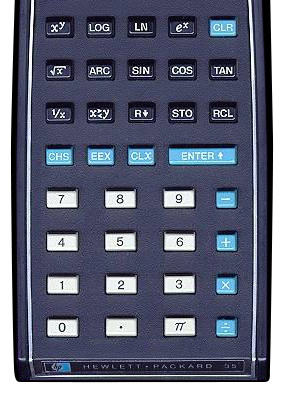
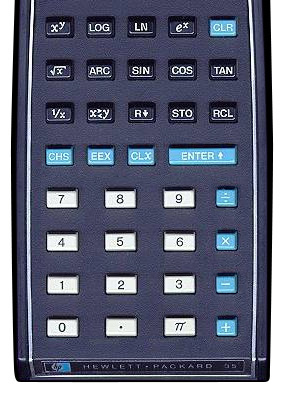
Switched operator keys
Operator keys in "modern" order

Changed region(s): [[0.7188, 0.665, 0.8438, 0.8766], [0.75, 0.4534, 0.8438, 0.5441], [0.75, 0.5743, 0.8438, 0.6348]]

diff --git a/hp35-ii.html b/hp35-ii.html
@@ -620,22 +620,22 @@ document.addEventListener("keydown", function onPress(event) {
 <area shape="RECT" coords="124,142,159,169" href="javascript:key_clx()" title="CLEAR x (backspace)">
 
 
-<area shape="RECT" coords="212,185,241,214" href="javascript:key_subtract()" title="-">
+<area shape="RECT" coords="212,185,241,214" href="javascript:key_divide()" title="/">
 <area shape="RECT" coords="42,185,84,214" href="javascript:key_num(7)" title="7">
 <area shape="RECT" coords="100,185,140,214" href="javascript:key_num(8)" title="8">
 <area shape="RECT" coords="158,185,198,214" href="javascript:key_num(9)" title="9">
 
-<area shape="RECT" coords="212,228,241,257" href="javascript:key_add()" title="+">
+<area shape="RECT" coords="212,228,241,257" href="javascript:key_multiply()" title="*">
 <area shape="RECT" coords="42,228,84,257" href="javascript:key_num(4)" title="4">
 <area shape="RECT" coords="100,228,140,257" href="javascript:key_num(5)" title="5">
 <area shape="RECT" coords="158,228,198,257" href="javascript:key_num(6)" title="6">
 
-<area shape="RECT" coords="212,271,241,300" href="javascript:key_multiply()" title="*">
+<area shape="RECT" coords="212,271,241,300" href="javascript:key_subtract()" title="-">
 <area shape="RECT" coords="42,271,84,300" href="javascript:key_num(1)" title="1">
 <area shape="RECT" coords="100,271,140,300" href="javascript:key_num(2)" title="2">
 <area shape="RECT" coords="158,271,198,300" href="javascript:key_num(3)" title="3">
 
-<area shape="RECT" coords="212,313,241,342" href="javascript:key_divide()" title="/">
+<area shape="RECT" coords="212,313,241,342" href="javascript:key_add()" title="+">
 <area shape="RECT" coords="42,313,84,342" href="javascript:key_num(0)" title="0">
 <area shape="RECT" coords="100,313,140,342" href="javascript:key_decimal()" title=".">
 <area shape="RECT" coords="158,313,198,342" href="javascript:key_pi()" title="pi">
